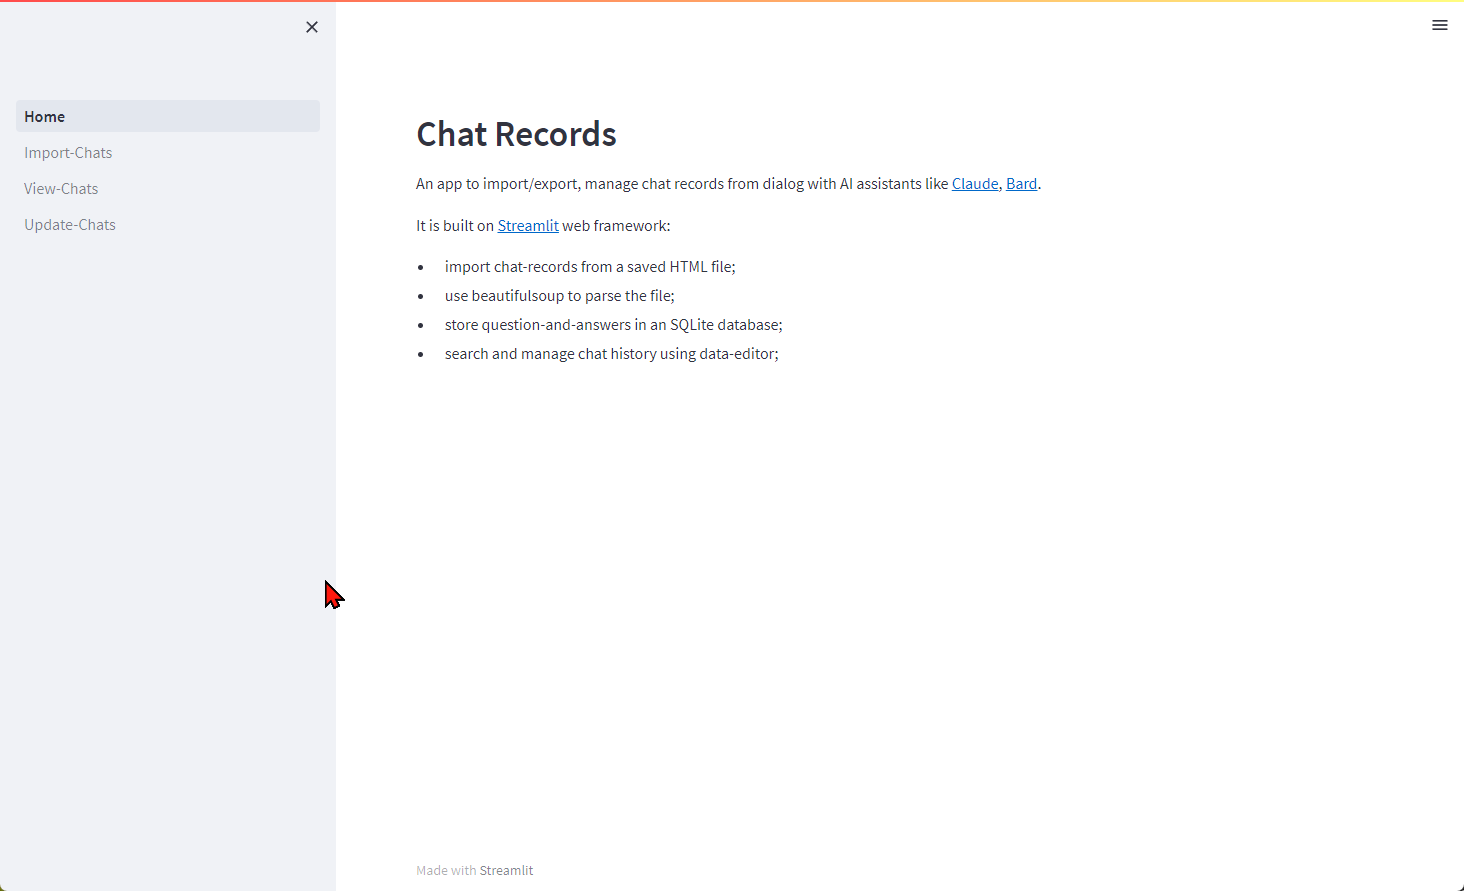
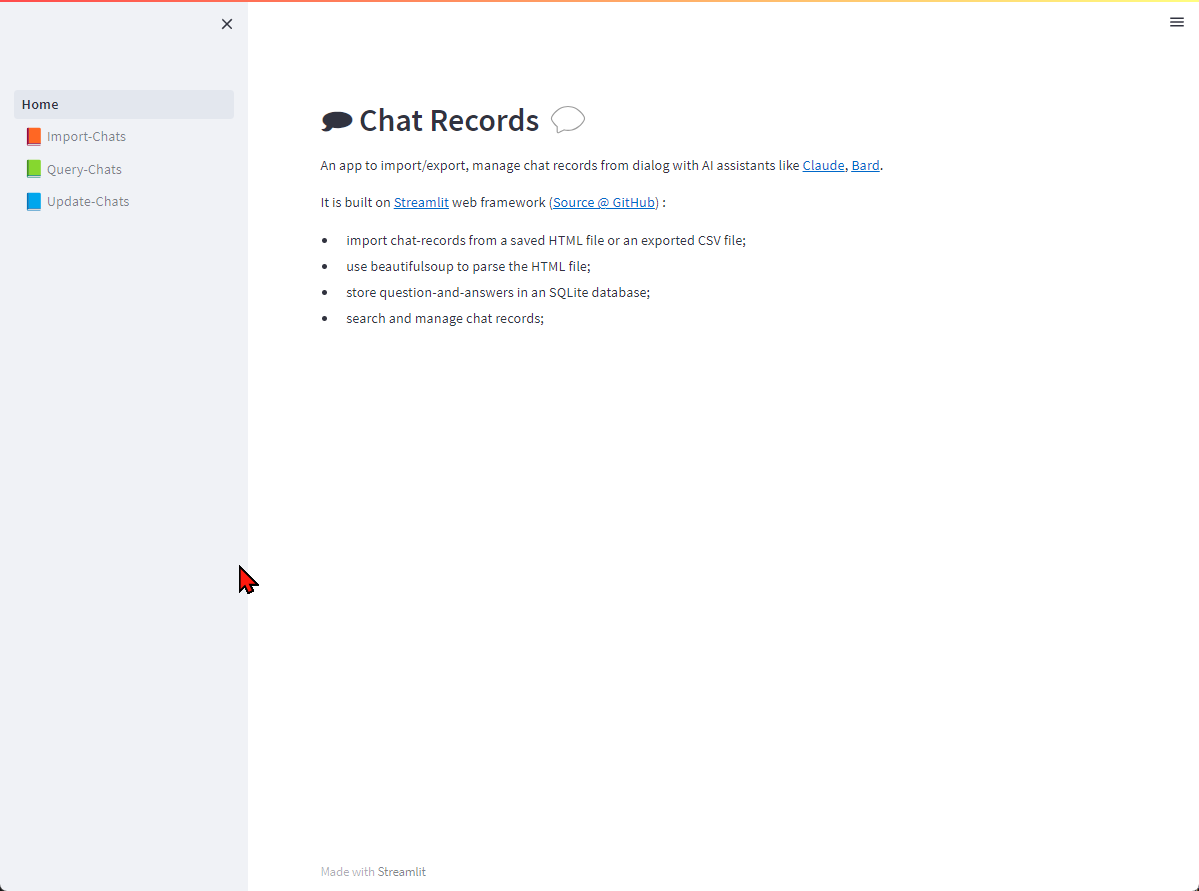
upd

diff --git a/app/Home.py b/app/Home.py
@@ -25,7 +25,7 @@ st.set_page_config(
 
 
 st.markdown("""
-## 🗩 Chat Records 🗪 
+## 🗩 Chat Records 💬 
 An app to import/export, manage chat records from dialog with AI assistants like [Claude](https://claude.ai/chats), [Bard](https://bard.google.com/).
             
 It is built on [Streamlit](https://streamlit.io/) web framework ([Source @ GitHub](https://github.com/wgong/chat-records)) : 
